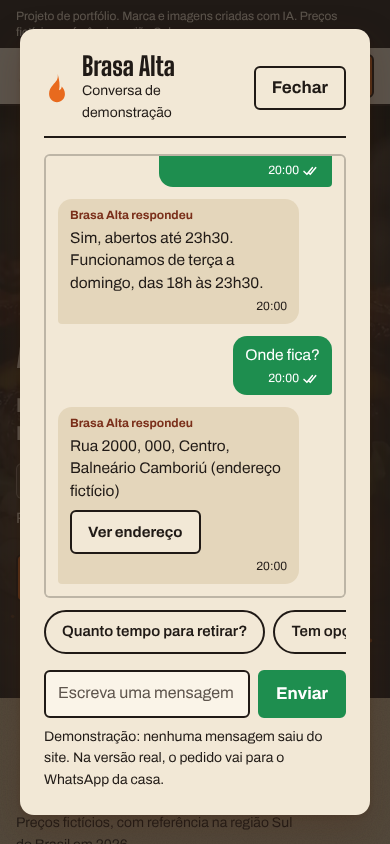
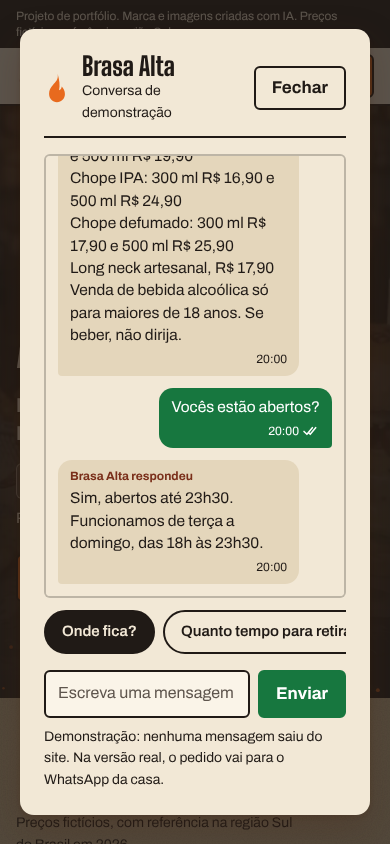
Prévia para LinkedIn, licença e ajustes de acessibilidade
Tags Open Graph e Twitter com imagem 1200x627, LICENSE MIT para o código, licenças OFL das fontes, seção Licença no README, contraste do verde, região viva única, chat em paisagem e respostas do chat completas.

Changed region(s): [[0.1231, 0.1848, 0.8615, 0.6777], [0.1231, 0.7085, 0.8923, 0.8009]]

diff --git a/site/styles.css b/site/styles.css
@@ -319,8 +319,8 @@ body.folha-ativa .toast{bottom:auto;top:calc(var(--topo) + var(--e3))}
 @media (prefers-reduced-motion:reduce){.pressionavel{transition:none}}
 
 .endereco-acao{margin-top:var(--e6)}
-.wa-flutuante{position:fixed;right:max(var(--e4),env(safe-area-inset-right));bottom:calc(var(--e4) + env(safe-area-inset-bottom));z-index:60;display:inline-flex;align-items:center;justify-content:center;gap:var(--e2);width:3.5rem;height:3.5rem;padding:0;border:0;border-radius:3.5rem;background:#1E8E4F;color:#fff;font-size:1rem;font-weight:700;line-height:1;box-shadow:0 2px 4px rgba(74,34,16,.18),0 8px 18px rgba(74,34,16,.28),0 18px 36px rgba(74,34,16,.2);translate:0 0;transition:translate 300ms cubic-bezier(.3,.7,.2,1),transform 100ms ease-out,opacity 200ms ease-out,visibility 0s}
-.wa-flutuante:hover{background:#17773F}
+.wa-flutuante{position:fixed;right:max(var(--e4),env(safe-area-inset-right));bottom:calc(var(--e4) + env(safe-area-inset-bottom));z-index:60;display:inline-flex;align-items:center;justify-content:center;gap:var(--e2);width:3.5rem;height:3.5rem;padding:0;border:0;border-radius:3.5rem;background:#17773F;color:#fff;font-size:1rem;font-weight:700;line-height:1;box-shadow:0 2px 4px rgba(74,34,16,.18),0 8px 18px rgba(74,34,16,.28),0 18px 36px rgba(74,34,16,.2);translate:0 0;transition:translate 300ms cubic-bezier(.3,.7,.2,1),transform 100ms ease-out,opacity 200ms ease-out,visibility 0s}
+.wa-flutuante:hover{background:#126332}
 .wa-flutuante svg{width:1.75rem;height:1.75rem;flex:none}
 .wa-flutuante :focus-visible,.wa-flutuante:focus-visible{outline:3px solid var(--fuligem);outline-offset:3px}
 .wa-texto{display:none}
@@ -339,8 +339,8 @@ body.wa-oculto .wa-flutuante{opacity:0;visibility:hidden;pointer-events:none;tra
 @media (min-width:1100px){body.wa-oculto .wa-flutuante{opacity:1;visibility:visible;pointer-events:auto}}
 @media (prefers-reduced-motion:reduce){body.wa-oculto .wa-flutuante{transition:none}}
 
-.btn-wa{gap:var(--e2);background:#1E8E4F;border-color:#1E8E4F;color:#fff}
-.btn-wa:hover{background:#17773F;border-color:#17773F}
+.btn-wa{gap:var(--e2);background:#17773F;border-color:#17773F;color:#fff}
+.btn-wa:hover{background:#126332;border-color:#126332}
 .conv-cab{display:flex;align-items:center;gap:var(--e3);padding-bottom:var(--e3);border-bottom:2px solid var(--fuligem)}
 .conv-cab svg{flex:none}
 .conv-cab h2{font-size:1.625rem}
@@ -348,7 +348,7 @@ body.wa-oculto .wa-flutuante{opacity:0;visibility:hidden;pointer-events:none;tra
 .conv-log{display:flex;flex-direction:column;gap:var(--e3);margin-top:var(--e4);padding:var(--e3);min-height:9rem;max-height:46dvh;overflow:auto;background:var(--papel);border:2px solid rgba(32,26,22,.25);border-radius:var(--r-ctrl)}
 .bolha{display:flex;flex-direction:column;max-width:88%;padding:var(--e2) var(--e3);border-radius:14px;font-size:.96875rem;line-height:1.45;word-break:break-word}
 .bolha-texto{white-space:pre-wrap}
-.bolha-eu{align-self:flex-end;background:#1E8E4F;color:#fff;border-bottom-right-radius:4px}
+.bolha-eu{align-self:flex-end;background:#17773F;color:#fff;border-bottom-right-radius:4px}
 .bolha-casa{align-self:flex-start;background:#E4D6BB;color:var(--fuligem);border-bottom-left-radius:4px}
 .bolha-rotulo{margin-bottom:.125rem;font-size:.75rem;font-weight:700;color:var(--tijolo-texto)}
 .bolha-meta{display:flex;align-items:center;justify-content:flex-end;gap:.25rem;margin-top:.25rem;font-size:.75rem;font-variant-numeric:tabular-nums}
@@ -375,3 +375,5 @@ body.wa-oculto .wa-flutuante{opacity:0;visibility:hidden;pointer-events:none;tra
 .chat-form input::placeholder{color:#5E554D;opacity:1}
 .chat-form .btn{min-height:3rem;padding:0 var(--e4)}
 .bolha-acao{align-self:flex-start;min-height:2.75rem;margin-top:var(--e2);padding:0 var(--e4);font-size:.9375rem}
+@media (max-width:359.98px){.conv-cab h2{font-size:1.375rem;white-space:nowrap}}
+@media (max-height:500px){.chips{flex-wrap:nowrap;overflow-x:auto}.dialogo-chat .conv-log{min-height:5rem;max-height:calc(100dvh - 14rem)}.dialogo-chat .nota-demo{display:none}}

diff --git a/site/script.js b/site/script.js
@@ -996,6 +996,7 @@
   });
   $("#fechar-dialogo").addEventListener("click", function () { dialogo.close(); });
 
+  $("#t-cardapio").tabIndex = -1;
   var NOTA_DEMO = "Demonstração: nenhuma mensagem saiu do site. Na versão real, o pedido vai para o WhatsApp da casa.";
   var enviarPedidoBtn = $("#enviar-pedido");
   var conv = { timers: [] };
@@ -1135,7 +1136,6 @@
     tx.appendChild(el("p", "", "Conversa de demonstração"));
     cab.appendChild(tx);
     var log = el("div", "conv-log");
-    log.setAttribute("role", "log");
     log.setAttribute("aria-label", "Conversa com a Brasa Alta");
     var eu = criarBolhaEu(texto);
     log.appendChild(eu.el);
@@ -1189,6 +1189,7 @@
     atualizar();
     mostrarToastDesfazer("Bandeja esvaziada", itens);
     anunciar("Pedido enviado");
+    toastDesfazer.focus({ preventScroll: true });
   }
 
   var dialogoWa = $("#dialogo-wa");
@@ -1213,7 +1214,6 @@
   function nomesVeg() {
     var nomes = [];
     CARDAPIO.forEach(function (cat) {
-      if (cat.id !== "hamburgueres" && cat.id !== "acompanhamentos") return;
       cat.itens.forEach(function (d) {
         if ((d.marcas || []).indexOf("veg") > -1) nomes.push(d.nome);
       });
@@ -1225,8 +1225,8 @@
     CARDAPIO.forEach(function (cat) {
       if (cat.id !== "chope") return;
       cat.itens.forEach(function (d) {
-        if (!d.tamanhos) return;
-        linhas.push(d.nome + ": " + d.tamanhos.map(function (t) { return t.rotulo + " " + moedaTexto(t.preco); }).join(" e "));
+        if (d.tamanhos) linhas.push(d.nome + ": " + d.tamanhos.map(function (t) { return t.rotulo + " " + moedaTexto(t.preco); }).join(" e "));
+        else linhas.push(d.nome + ", " + moedaTexto(d.preco));
       });
     });
     return linhas.join("\n") + "\n" + AVISO_ALCOOL;
@@ -1235,7 +1235,8 @@
     var alvo = $(sel);
     if (alvo) alvo.scrollIntoView({ behavior: reduz.matches ? "auto" : "smooth", block: "start" });
   }
-  function fecharChatE(fn) {
+  function fecharChatE(fn, foco) {
+    if (foco) chat.abridor = foco;
     dialogoWa.close();
     window.setTimeout(fn, 60);
   }
@@ -1267,7 +1268,7 @@
               buscaEl.value = "vegetariano";
               aplicarBusca();
               irPara("#cardapio");
-            });
+            }, $("#t-cardapio"));
           }
         }
       };
@@ -1278,7 +1279,7 @@
       texto: "Monte seu pedido no cardápio e toque em Enviar no WhatsApp na bandeja.",
       acao: tem
         ? { texto: "Ver minha bandeja", fazer: function () { fecharChatE(function () { if (desktop.matches) irPara("#bandeja"); else abrirFolha(btnHeader); }); } }
-        : { texto: "Abrir cardápio", fazer: function () { fecharChatE(function () { irPara("#cardapio"); }); } }
+        : { texto: "Abrir cardápio", fazer: function () { fecharChatE(function () { irPara("#cardapio"); }, $("#t-cardapio")); } }
     };
   }
 

diff --git a/site/index.html b/site/index.html
@@ -7,6 +7,25 @@
 <meta name="description" content="Projeto conceitual de portfólio: site de uma hamburgueria fictícia, a Brasa Alta, com cardápio, bandeja de pedido e horário. Marca, imagens, preços e endereço são fictícios, criados com IA.">
 <meta name="robots" content="noindex, nofollow">
 <meta name="theme-color" content="#201A16">
+<link rel="canonical" href="https://portfolio-brasa-alta.pages.dev/">
+<meta property="og:type" content="website">
+<meta property="og:locale" content="pt_BR">
+<meta property="og:site_name" content="Brasa Alta">
+<meta property="og:url" content="https://portfolio-brasa-alta.pages.dev/">
+<meta property="og:title" content="Brasa Alta, hamburgueria na lenha (projeto conceitual de portfólio)">
+<meta property="og:description" content="Site conceitual de hamburgueria fictícia com cardápio, busca, pedido montável e atendimento simulado. Projeto de portfólio de Diego Arruda; marca, imagens e preços criados com IA.">
+<meta property="og:image" content="https://portfolio-brasa-alta.pages.dev/og-imagem.jpg">
+<meta property="og:image:secure_url" content="https://portfolio-brasa-alta.pages.dev/og-imagem.jpg">
+<meta property="og:image:type" content="image/jpeg">
+<meta property="og:image:width" content="1200">
+<meta property="og:image:height" content="627">
+<meta property="og:image:alt" content="Brasa Alta, hamburgueria na lenha. Projeto conceitual de portfólio de Diego Arruda, com marca, imagens e preços fictícios criados com IA.">
+<meta name="author" content="Diego Arruda">
+<meta name="twitter:card" content="summary_large_image">
+<meta name="twitter:title" content="Brasa Alta, hamburgueria na lenha (projeto conceitual de portfólio)">
+<meta name="twitter:description" content="Site conceitual de hamburgueria fictícia com cardápio, busca, pedido montável e atendimento simulado. Projeto de portfólio de Diego Arruda.">
+<meta name="twitter:image" content="https://portfolio-brasa-alta.pages.dev/og-imagem.jpg">
+<meta name="twitter:image:alt" content="Brasa Alta, projeto conceitual de portfólio de Diego Arruda.">
 <link rel="icon" href="img/marca.svg" type="image/svg+xml">
 <link rel="stylesheet" href="styles.css">
 </head>
@@ -241,7 +260,7 @@
       </div>
       <button type="button" class="btn pressionavel conv-fechar" id="wa-fechar">Fechar</button>
     </div>
-    <div class="conv-log" id="chat-log" role="log" aria-label="Conversa com a Brasa Alta"></div>
+    <div class="conv-log" id="chat-log" aria-label="Conversa com a Brasa Alta"></div>
     <div class="chips" id="chat-chips" role="group" aria-label="Sugestões de resposta"></div>
     <form class="chat-form" id="chat-form">
       <label for="chat-texto" class="sr-only">Escreva uma mensagem</label>

diff --git a/README.md b/README.md
@@ -10,7 +10,7 @@ Site conceitual de uma hamburgueria fictícia na brasa, com cardápio, busca, pe
 
 ## O que o site faz
 
-- **Cardápio de 51 itens em 9 categorias**, gerado a partir de uma lista de dados, com barra de categorias fixa que acompanha a rolagem.
+- **Cardápio de 51 itens em 9 categorias**, gerado a partir de uma lista de dados, com barra de categorias fixa que acompanha a rolagem. A categoria Molhos e adicionais reúne dois subgrupos, por isso a pesquisa de preços lista 10 tabelas.
 - **Busca** sem acento e sem diferenciar maiúsculas, por nome, descrição, categoria e etiqueta.
 - **Bandeja de pedido**: o botão Adicionar vira controle de quantidade, chopes com seletor de 300 e 500 ml, total em tempo real, observação e forma de retirada. No celular, a bandeja é uma folha arrastável com mola.
 - **Envio simulado**: o pedido vira uma conversa com resposta da casa, que muda conforme o horário de Brasília, a forma de retirada e a presença de bebida alcoólica.
@@ -48,12 +48,19 @@ site/
 ├── index.html
 ├── styles.css
 ├── script.js
-├── fonts/   Big Shoulders Display e Archivo (SIL Open Font License)
+├── fonts/   Big Shoulders Display e Archivo, com as licenças OFL
 ├── img/
 └── media/   vídeo de 12 s e trechos curtos em loop
 ```
 
 Para abrir localmente, basta abrir `site/index.html` no navegador.
+
+## Licença
+
+- **Código** (HTML, CSS e JavaScript): licença MIT, no arquivo [LICENSE](LICENSE). Pode ser reutilizado mantendo o aviso de copyright.
+- **Marca, imagens e vídeo** (nome e identidade Brasa Alta, arquivos em `site/img/`, `site/media/`, `site/og-imagem.jpg` e `capturas/`): criados com IA para este projeto conceitual e não estão incluídos na licença MIT. Estão aqui só para exibir o projeto; não use como marca, em produto ou em material comercial.
+- **Fontes** (Big Shoulders Display e Archivo, em `site/fonts/`): SIL Open Font License 1.1, dos respectivos autores, com o texto da licença ao lado dos arquivos ([OFL-BigShouldersDisplay.txt](site/fonts/OFL-BigShouldersDisplay.txt) e [OFL-Archivo.txt](site/fonts/OFL-Archivo.txt)).
+- **Cardápio e preços**: fictícios, com a pesquisa de referência em [pesquisa-cardapio.md](pesquisa-cardapio.md).
 
 ## Como foi feito
 
